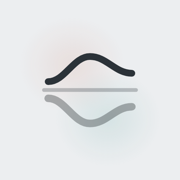
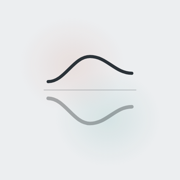
Draw the square mark thin, and the header's mark at its old size
The profile picture and home screen icon use the Gumroad thumbnail's
strokes (.75 for the curve, .85 for the reflection, .16 for the line),
which read as more refined than the heavier ones. The X header keeps
the mark and the name at the size and place they had beside the
headline.

Changed region(s): [[0.2222, 0.2778, 0.7778, 0.7222]]

diff --git a/tools/x-header-source.html b/tools/x-header-source.html
@@ -28,13 +28,13 @@
     background-size:24px 24px,24px 24px,120px 120px,120px 120px}
   .mono{font-family:ui-monospace,"SF Mono",Menlo,monospace;font-size:15px;letter-spacing:.08em;color:#5d646c}
   svg.sig{position:absolute;inset:0;width:1500px;height:500px}
-  .head{position:absolute;right:96px;top:150px;text-align:right}
-  .brand{display:inline-flex;align-items:center;gap:22px;font-size:64px;font-weight:700;letter-spacing:-.04em}
-  .brand svg{width:80px;height:73px}
+  .head{position:absolute;right:96px;top:98px;text-align:right}
+  .brand{display:inline-flex;align-items:center;gap:14px;font-size:30px;font-weight:700;letter-spacing:-.02em}
+  .brand svg{width:38px;height:35px}
   h1{margin-top:18px;font-size:60px;line-height:.98;font-weight:700;letter-spacing:-.045em}
   h1 em{font-style:normal;color:#c86a4f}
   .tl{position:absolute;left:96px;top:92px}
-  .foot{position:absolute;right:96px;top:262px;text-align:right}
+  .foot{position:absolute;right:96px;bottom:84px;text-align:right}
   .foot b{color:#1b1f23;font-weight:600}
 </style>
 </head>
@@ -59,8 +59,8 @@
   <div class="brand">
     <svg viewBox="-2 0 24 22" fill="none" stroke-linecap="round">
       <line x1="-1" y1="11" x2="21" y2="11" stroke="#3c4248" stroke-opacity=".3" stroke-width=".9"/>
-      <path d="M0 13 C4 13 6 19 10 19 C14 19 16 15 20 15" stroke="#1b1f23" stroke-opacity=".34" stroke-width="1.8"/>
-      <path d="M0 9 C4 9 6 3 10 3 C14 3 16 7 20 7" stroke="#2b3238" stroke-width="1.6"/>
+      <path d="M0 13 C4 13 6 19 10 19 C14 19 16 15 20 15" stroke="#1b1f23" stroke-opacity=".34" stroke-width="2.4"/>
+      <path d="M0 9 C4 9 6 3 10 3 C14 3 16 7 20 7" stroke="#2b3238" stroke-width="2.1"/>
     </svg>
     tokyomeltdown
   </div>

diff --git a/tools/icon-source.html b/tools/icon-source.html
@@ -16,7 +16,8 @@
   reflection at a third of the strength, and the line of the mirror between
   them, on the 22 x 22 grid the plug-in uses. It sits in the middle 56 % so
   that X's circle and iOS's rounded square both leave it whole. The strokes
-  are heavier than on the page because these are seen at 32 to 48 pixels.
+  are the Gumroad thumbnail's (.75 / .85 / .16): asked for twice, thinner reads
+  as more refined, and it still holds at 48 pixels.
 -->
 <style>
   *{margin:0;padding:0}
@@ -28,9 +29,9 @@
 <body>
 <div class="glow"></div>
 <svg viewBox="-2 0 24 22" preserveAspectRatio="xMidYMid meet" fill="none" stroke-linecap="round" stroke-linejoin="round">
-  <line x1="-1" y1="11" x2="21" y2="11" stroke="#3c4248" stroke-opacity=".3" stroke-width=".9"/>
-  <path d="M0 13 C4 13 6 19 10 19 C14 19 16 15 20 15" stroke="#1b1f23" stroke-opacity=".34" stroke-width="1.8"/>
-  <path d="M0 9 C4 9 6 3 10 3 C14 3 16 7 20 7" stroke="#2b3238" stroke-width="1.6"/>
+  <line x1="-1" y1="11" x2="21" y2="11" stroke="#3c4248" stroke-opacity=".3" stroke-width=".16"/>
+  <path d="M0 13 C4 13 6 19 10 19 C14 19 16 15 20 15" stroke="#1b1f23" stroke-opacity=".34" stroke-width=".85"/>
+  <path d="M0 9 C4 9 6 3 10 3 C14 3 16 7 20 7" stroke="#2b3238" stroke-width=".75"/>
 </svg>
 </body>
 </html>
